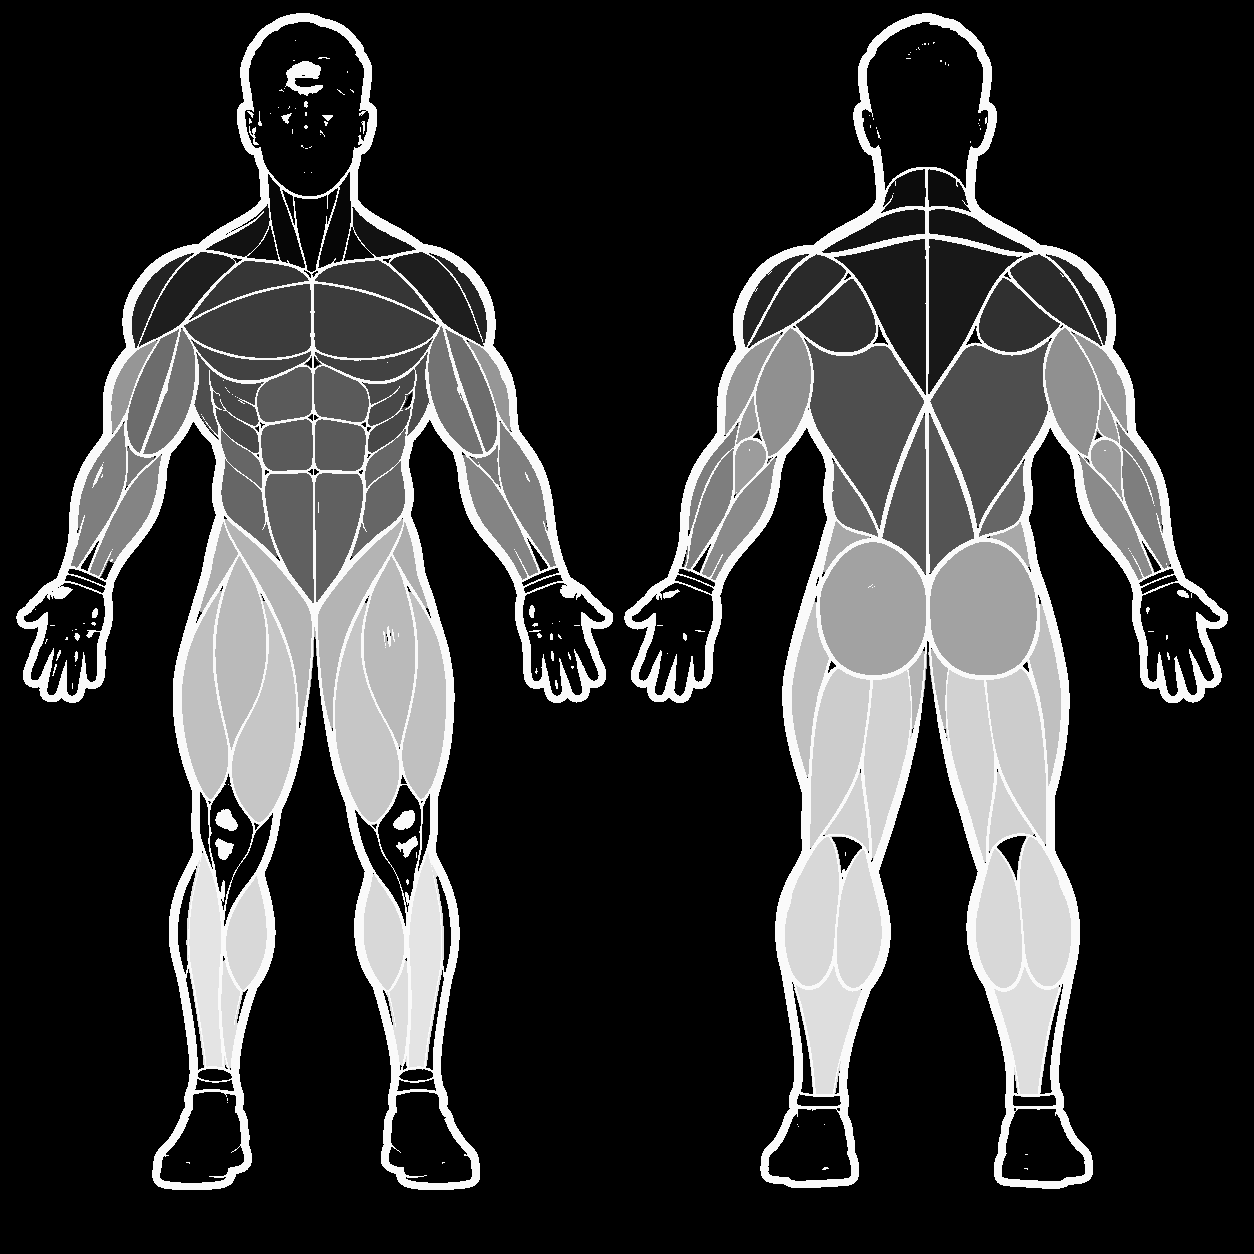
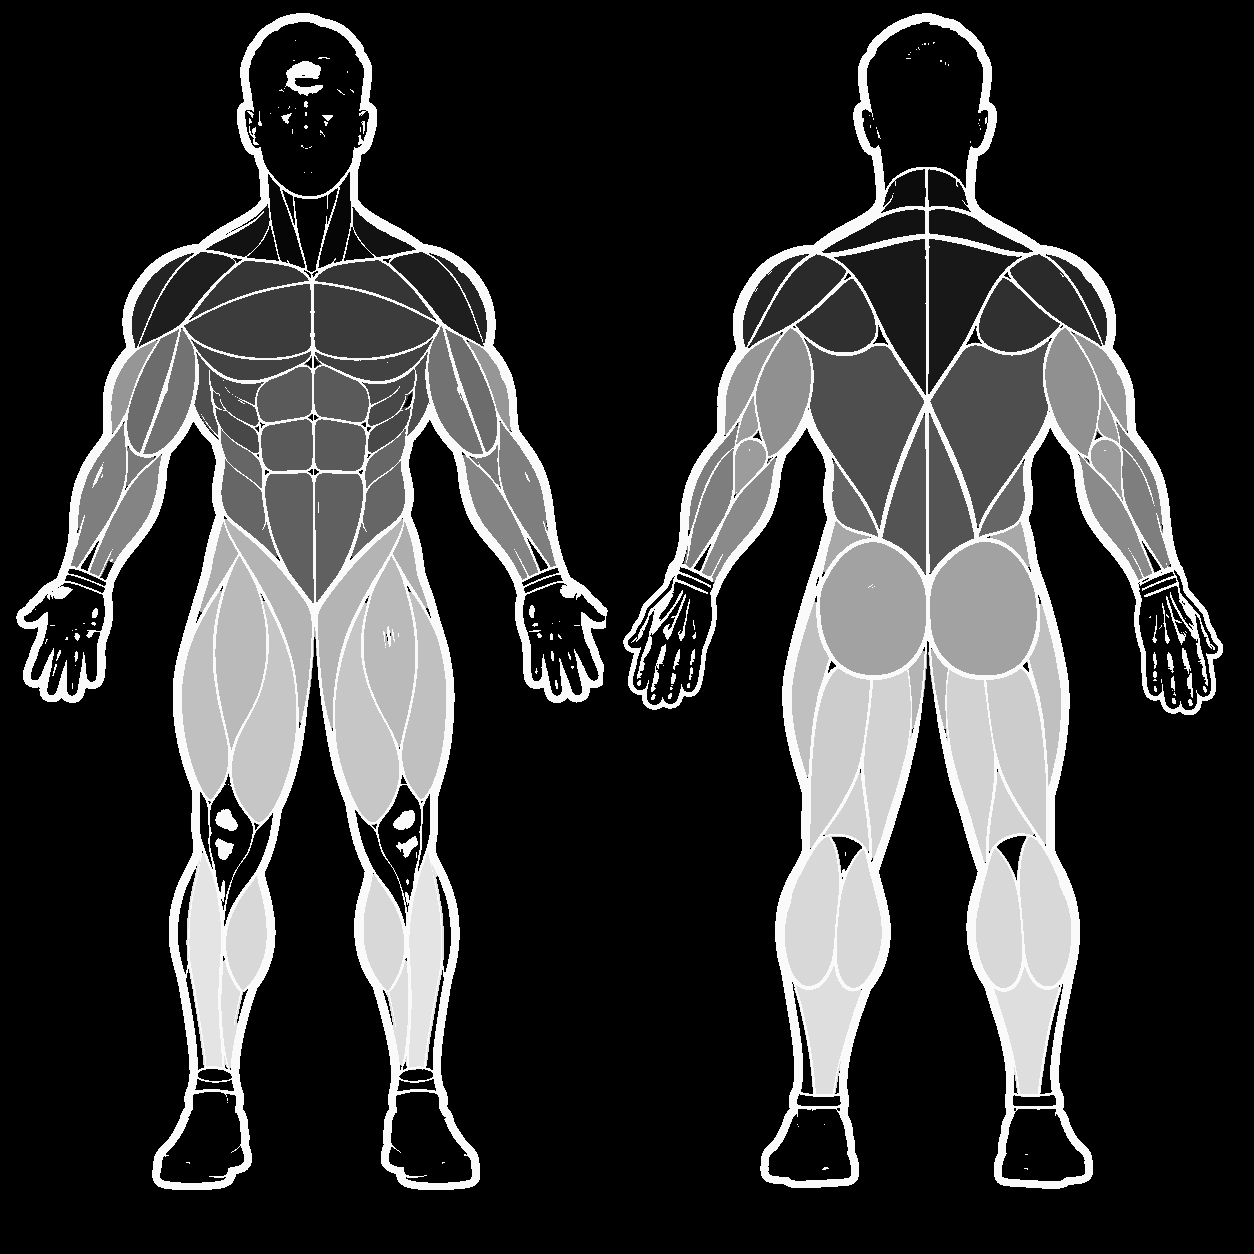
Gaga

Changed region(s): [[0.9019, 0.4354, 0.9952, 0.5909], [0.4976, 0.4354, 0.5909, 0.5598]]

diff --git a/service-worker.js b/service-worker.js
@@ -1,6 +1,6 @@
 // Cache names are per ORIGIN (username.github.io), not per repo, so this worker only ever touches caches with its own prefix.
 const PREFIX = "magnum-opus-";
-const CACHE = PREFIX + "v6";
+const CACHE = PREFIX + "v7";
 const ASSETS = [
   "./",
   "./index.html",
